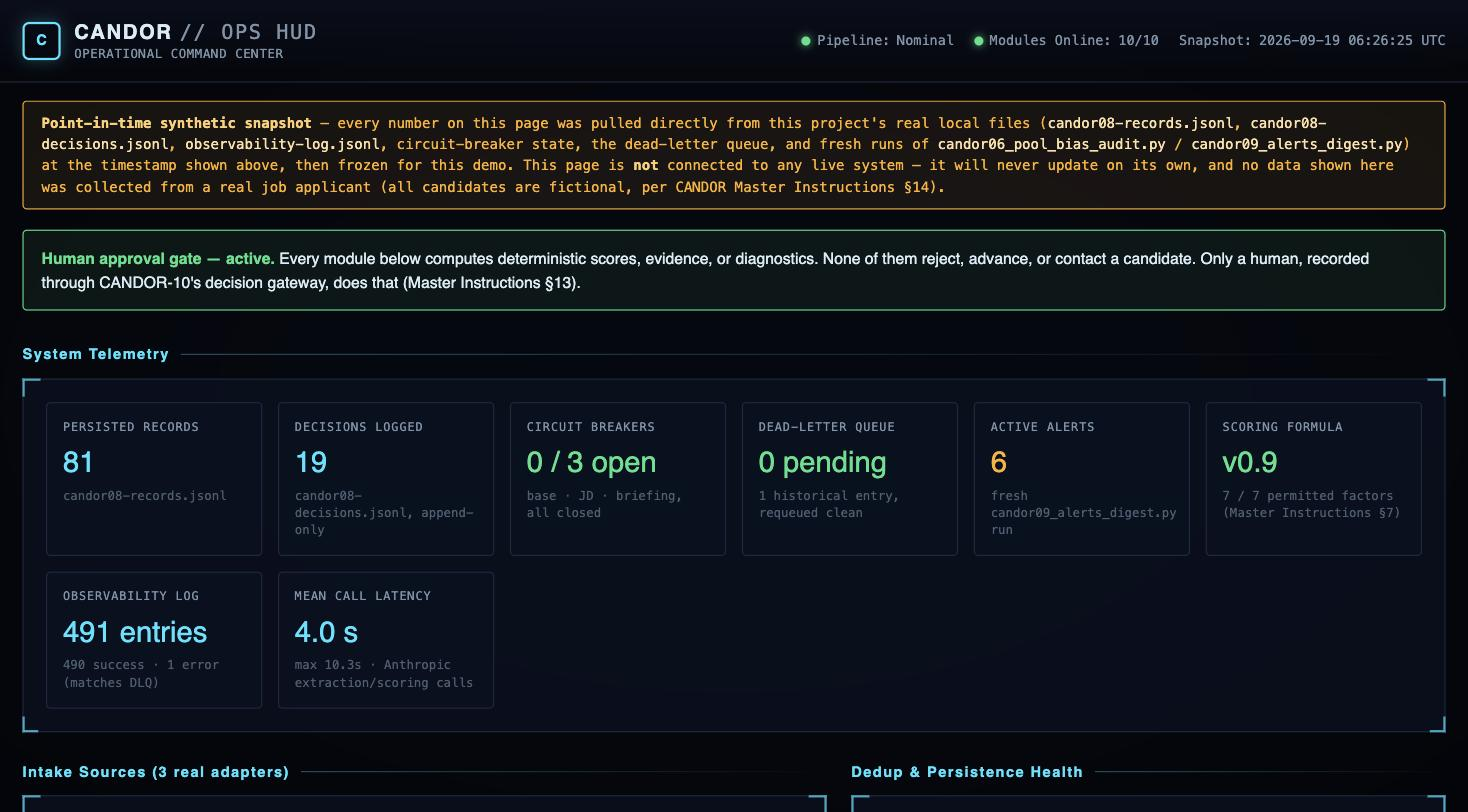
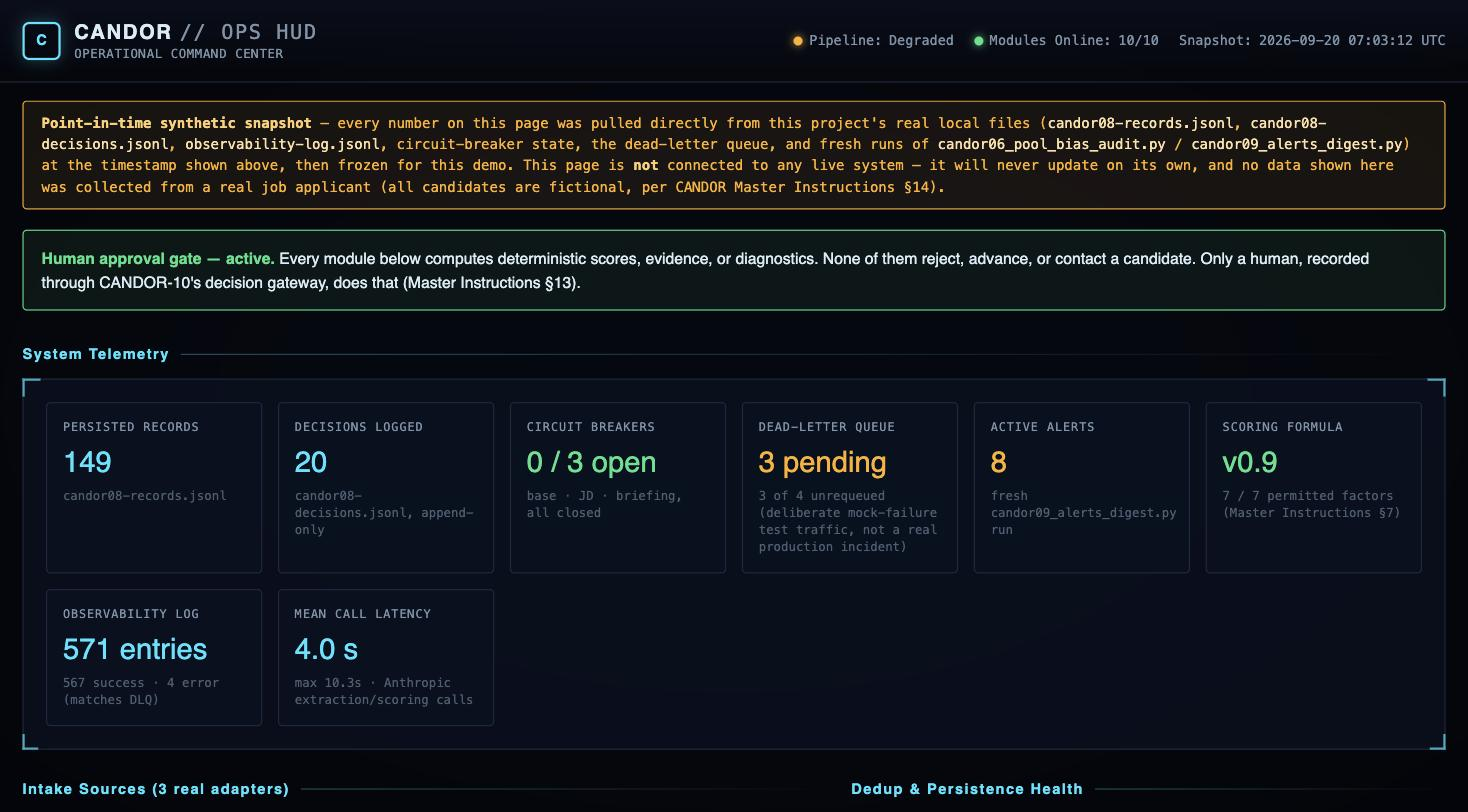
Refresh interfaces + docs against current real pipeline state
Both interfaces regenerated with real current numbers (149 persisted
records, 20 logged decisions, 571 observability entries, 8 active
alerts) and a new "Recent Corrections & Hardening Pass" summary on the
Ops HUD covering: a stale doc fix, all 7 real workflows version
-controlled, a circuit breaker's full lifecycle proven end to end, a
real 60-concurrent latency ceiling found and honestly reported, a
real-browser confirmation of the human-approval gateway, and a
record-count discrepancy traced to its exact real cause. Fresh desktop
screenshots captured and verified in a real browser (zero console
errors) before this commit.

Docs updated to match: README's JD-extraction-cache line changed from
"identified but not yet fixed" to what it actually is now (fixed,
reconfirmed live, ~$0.0053/candidate with the cache in place);
LOAD-AND-CONCURRENCY-TESTING.md's two open test-coverage gaps marked
closed with a new section on how; ARCHITECTURE.md's CANDOR-04 row
updated to describe the real cache mechanism, now matching the
workflows/CANDOR-04.json export already in this repo;
SECURITY-AND-PRIVACY.md discloses the real sanitization gap from this
repo's own prior commit (an internal path missed by the first pass,
caught by a post-push scan, fixed) rather than only describing scans
that came back clean.

A real secret scan ran clean before this commit; will be re-run against
the actually-pushed content after.

Claude-Session: https://claude.ai/code/session_013UgCjvzK3WCa9tzjQx8K6k

diff --git a/interfaces/candor-ops-hud.html b/interfaces/candor-ops-hud.html
@@ -289,21 +289,36 @@
     </div>
   </section>
 
+  <section aria-labelledby="hardening-h" style="margin-top:26px;">
+    <h2 class="section-title" id="hardening-h">Recent Corrections &amp; Hardening Pass</h2>
+    <div class="panel"><span class="bl"></span><span class="br"></span>
+      <p class="mono" style="font-size:11.5px; color:var(--txt-dim); margin-top:0;">
+        A real, self-audited pass over this project's own prior work — including a stale doc found and fixed, a
+        real sanitization gap found and fixed post-push, and an inconclusive test result reported as exactly
+        that rather than resolved by retrying.
+      </p>
+      <div id="hardening-list" style="display:flex; flex-direction:column; gap:10px;"></div>
+    </div>
+  </section>
+
   <footer>
     <p><strong>Data provenance:</strong> this snapshot was generated on <span id="footer-time" class="mono"></span>
     directly from this project's real local files as of that moment — <code>data/candor-08/candor08-records.jsonl</code>
-    (81 records), <code>data/candor-08/candor08-decisions.jsonl</code> (19 decisions),
-    <code>data/candor-08/observability-log.jsonl</code> (491 entries), the 3 circuit-breaker state files, the
+    (<span id="footer-records"></span> records), <code>data/candor-08/candor08-decisions.jsonl</code>
+    (<span id="footer-decisions"></span> decisions), <code>data/candor-08/observability-log.jsonl</code>
+    (<span id="footer-observability"></span> entries), the 3 circuit-breaker state files, the
     dead-letter queue, and fresh runs of <code>candor06_pool_bias_audit.py</code>, <code>candor06_pool_statistics.py</code>,
     <code>candor06_pool_clustering.py</code>, and <code>candor09_alerts_digest.py</code>. It is a frozen copy, not
-    a live feed — this page never calls out to n8n or any other backend, by design (Master Instructions §14).</p>
+    a live feed — this page never calls out to n8n or any other backend, by design (Master Instructions §14).
+    Real counts drift slightly with every subsequent git commit in this project (its own pre-commit hook runs
+    live regression checks that can add one real record) — a documented, expected mechanism, not an error.</p>
     <p>CANDOR is a demonstration project. Nothing on this page constitutes a hiring decision, a certification of
     legal or bias compliance, or a recommendation about any person — real or synthetic (Master Instructions
     §8 / §13 / §26).</p>
   </footer>
 </main>
 
-<script id="candor-data" type="application/json">{"snapshot_generated_at": "2026-09-19T06:26:25Z", "scoring_formula_version": "CANDOR-04 scoring v0.9", "persisted_records": 81, "decisions_logged": 19, "decisions_breakdown": {"REJECT": 2, "HOLD_MORE_INFO_NEEDED": 17, "ADVANCE": 0}, "modules_online": 10, "modules_total": 10, "circuit_breakers_open": 0, "circuit_breakers_total": 3, "dlq_pending": 0, "dlq_historical": 1, "active_alerts": 6, "observability_entries": 491, "observability_success": 490, "observability_error": 1, "mean_latency_ms": 4040, "max_latency_ms": 10263, "dedup_exact": 39, "dedup_near": 11, "intake_sources": {"file-upload": 69, "application-form": 4, "ats-export": 8}, "bias_audit": {"n": 6, "pool_formula_version": "CANDOR-04 scoring v0.6", "pool_stale_note": "Canonical 6-candidate demo pool has not been rescored under v0.9 - identical resubmission is correctly blocked by CANDOR-08's exact-match dedup gate (built 2026-09-18). Numbers below are still the real, current output of candor06_pool_bias_audit.py against that pool.", "requirement_failure_rates": [{"skill": "hubspot", "matched": 1, "total": 6, "pct": 17}, {"skill": "salesforce", "matched": 2, "total": 6, "pct": 33}]}, "pool_statistics": {"n": 6, "match_score": {"mean": 47.83, "median": 50.0, "min": 0, "max": 100}, "evidence_confidence": {"mean": 67.83, "median": 64.5, "min": 40, "max": 100}, "outliers": "none flagged (Tukey IQR fences, n=6)"}, "clusters": [{"label": "NOT_MATCHED + UNKNOWN", "n": 3}, {"label": "MATCHED + PARTIAL", "n": 1}, {"label": "MATCHED + SUFFICIENT", "n": 1}, {"label": "NOT_MATCHED + INSUFFICIENT_OR_IRRELEVANT", "n": 1}]}</script>
+<script id="candor-data" type="application/json">{"snapshot_generated_at": "2026-09-20T07:03:12Z", "scoring_formula_version": "CANDOR-04 scoring v0.9", "persisted_records": 149, "decisions_logged": 20, "decisions_breakdown": {"REJECT": 2, "HOLD_MORE_INFO_NEEDED": 18, "ADVANCE": 0}, "modules_online": 10, "modules_total": 10, "circuit_breakers_open": 0, "circuit_breakers_total": 3, "dlq_pending": 3, "dlq_historical": 4, "active_alerts": 8, "observability_entries": 571, "observability_success": 567, "observability_error": 4, "mean_latency_ms": 3951, "max_latency_ms": 10263, "dedup_exact": 39, "dedup_near": 18, "intake_sources": {"file-upload": 130, "application-form": 4, "ats-export": 15}, "bias_audit": {"n": 6, "pool_formula_version": "CANDOR-04 scoring v0.6", "pool_stale_note": "Canonical 6-candidate demo pool has not been rescored under v0.9 - identical resubmission is correctly blocked by CANDOR-08's exact-match dedup gate (built 2026-09-18). Numbers below are still the real, current output of candor06_pool_bias_audit.py against that pool.", "requirement_failure_rates": [{"skill": "hubspot", "matched": 1, "total": 6, "pct": 17}, {"skill": "salesforce", "matched": 2, "total": 6, "pct": 33}]}, "pool_statistics": {"n": 6, "match_score": {"mean": 47.83, "median": 50.0, "min": 0, "max": 100}, "evidence_confidence": {"mean": 67.83, "median": 64.5, "min": 40, "max": 100}, "outliers": "none flagged (Tukey IQR fences, n=6)"}, "clusters": [{"label": "NOT_MATCHED + UNKNOWN", "n": 3}, {"label": "MATCHED + PARTIAL", "n": 1}, {"label": "MATCHED + SUFFICIENT", "n": 1}, {"label": "NOT_MATCHED + INSUFFICIENT_OR_IRRELEVANT", "n": 1}], "hardening_pass": {"pass_date": "2026-09-19/20", "items": [{"title": "JD-extraction cache reconfirmed live", "detail": "ComputeJDContentHash through AppendJDExtractionCacheToDisk verified present, wired, active on the real workflow before any doc was touched; 2 real cache entries confirmed on disk."}, {"title": "All 7 real workflows version-controlled", "detail": "Full JSON exports (172 nodes total) via n8n's REST API, private repo; 3 sanitized, representative ones (source adapters, scoring engine, human gate) pushed publicly - a real gap in the first sanitization pass (an internal container path) was found by a post-push scan and fixed in a follow-up commit."}, {"title": "Circuit-breaker full lifecycle proven", "detail": "Threshold failures -> open -> blocked-while-open -> cooldown -> recovery probe -> closed -> normal traffic resumed, real evidence at every stage via a local mock server (real cost: $0.32 total for the whole pass, against a stated $5 ceiling)."}, {"title": "A real 60-concurrent latency ceiling found", "detail": "60/60 succeeded with zero data loss, but real queueing spread per-execution time 10.7s to 49.1s within one submission burst. 100-concurrent was inconclusive (a client-side test-harness limit, not a confirmed server ceiling) and reported as exactly that."}, {"title": "Real-browser CANDOR-10 confirmation", "detail": "A real Chrome browser correctly and natively received the page-2 response on the multi-page form's long-poll URL after ~10s - closing an open question from the concurrent-review test about whether that was a platform limitation (it wasn't; it was specific to the scripted test client)."}, {"title": "A record-count discrepancy reconciled", "detail": "148 vs. an expected 146 after a load test, traced to the project's own git pre-commit hook adding real regression-check records on 2 later commits - not a bug, a now-documented, expected side effect of committing during/after a test session."}]}}</script>
 <script id="candor-modules" type="application/json">[{"id": "CANDOR-01", "name": "Intake & Parsing Core", "status": "ONLINE", "detail": "Resume/JD extraction \u00b7 circuit breaker, retry, observability, DLQ"}, {"id": "CANDOR-02", "name": "Source Adapters (3)", "status": "ONLINE", "detail": "file-upload \u00b7 application-form \u00b7 ATS-export batch"}, {"id": "CANDOR-03", "name": "Claim Extraction & Evidence Verification", "status": "ONLINE", "detail": "Same workflow as CANDOR-01, by design"}, {"id": "CANDOR-04", "name": "Requirement Matching & Deterministic Scoring", "status": "ONLINE", "detail": "Match Score v0.9 \u00b7 7/7 permitted factors scored"}, {"id": "CANDOR-05", "name": "Bias & Fairness Audit Layer", "status": "ONLINE", "detail": "Per-run audit record \u00b7 same workflow as CANDOR-04"}, {"id": "CANDOR-06", "name": "Comparative Ranking & Clustering", "status": "ONLINE", "detail": "Pool statistics, bias audit, qualification clustering (Python)"}, {"id": "CANDOR-07", "name": "Recruiter Briefing Generator", "status": "ONLINE", "detail": "Claude Sonnet 5 \u00b7 5 hard constraints \u00b7 independent QA review pass"}, {"id": "CANDOR-08", "name": "Database / Historical Intelligence", "status": "ONLINE", "detail": "Append-only JSONL \u00b7 exact + near-duplicate dedup gate"}, {"id": "CANDOR-09", "name": "Alerts / Reporting", "status": "ONLINE", "detail": "Bias-rate + unreviewed-candidate digest (Python)"}, {"id": "CANDOR-10", "name": "Human Approval & Action Gateway", "status": "ONLINE", "detail": "2-page form \u00b7 records decisions, never executes one"}]</script>
 <script>
 (function(){
@@ -319,6 +334,9 @@
   var t = fmtTime(DATA.snapshot_generated_at);
   document.getElementById('snapshot-time').textContent = t;
   document.getElementById('footer-time').textContent = t;
+  document.getElementById('footer-records').textContent = DATA.persisted_records;
+  document.getElementById('footer-decisions').textContent = DATA.decisions_logged;
+  document.getElementById('footer-observability').textContent = DATA.observability_entries;
   document.getElementById('modules-online-label').textContent = DATA.modules_online + '/' + DATA.modules_total;
   document.getElementById('formula-version-inline').textContent = DATA.scoring_formula_version;
 
@@ -339,7 +357,7 @@
   telGrid.appendChild(tile('Persisted Records', String(DATA.persisted_records), 'cyan', 'candor08-records.jsonl'));
   telGrid.appendChild(tile('Decisions Logged', String(DATA.decisions_logged), 'cyan', 'candor08-decisions.jsonl, append-only'));
   telGrid.appendChild(tile('Circuit Breakers', DATA.circuit_breakers_open+' / '+DATA.circuit_breakers_total+' open', 'green', 'base · JD · briefing, all closed'));
-  telGrid.appendChild(tile('Dead-Letter Queue', DATA.dlq_pending+' pending', 'green', DATA.dlq_historical+' historical entry, requeued clean'));
+  telGrid.appendChild(tile('Dead-Letter Queue', DATA.dlq_pending+' pending', DATA.dlq_pending>0?'amber':'green', DATA.dlq_pending>0 ? DATA.dlq_pending+' of '+DATA.dlq_historical+' unrequeued (deliberate mock-failure test traffic, not a real production incident)' : DATA.dlq_historical+' historical entry, requeued clean'));
   telGrid.appendChild(tile('Active Alerts', String(DATA.active_alerts), 'amber', 'fresh candor09_alerts_digest.py run'));
   telGrid.appendChild(tile('Scoring Formula', 'v0.9', 'green', '7 / 7 permitted factors (Master Instructions §7)'));
   telGrid.appendChild(tile('Observability Log', DATA.observability_entries+' entries', 'cyan', DATA.observability_success+' success · '+DATA.observability_error+' error (matches DLQ)'));
@@ -394,12 +412,28 @@
     'INTAKE-SYNTHETIC-RESUME-03-...52436 — INSUFFICIENT INFORMATION, no recorded decision',
     'INTAKE-SYNTHETIC-RESUME-03-...58564 — INSUFFICIENT INFORMATION, no recorded decision',
     'INTAKE-SYNTHETIC-RESUME-03-...61634 — INSUFFICIENT INFORMATION, no recorded decision',
-    'INTAKE-SYNTHETIC-RESUME-02-...24359 — INSUFFICIENT INFORMATION, no recorded decision'
+    'INTAKE-SYNTHETIC-RESUME-02-...24359 — INSUFFICIENT INFORMATION, no recorded decision',
+    'INTAKE-CBTEST-CANDIDATE-5-...54983 — INSUFFICIENT INFORMATION, no recorded decision (deliberate mock-recovery-probe test candidate)',
+    '3 unrequeued dead-letter entries — real, deliberate mock-server failures from a controlled circuit-breaker lifecycle test, not real production incidents'
   ];
   alerts.forEach(function(a){ var li=document.createElement('li'); li.textContent=a; alertList.appendChild(li); });
   var clean = document.createElement('li'); clean.className='clean';
-  clean.textContent = 'Circuit breakers: all closed. Dead-letter queue: no unrequeued entries.';
+  clean.textContent = 'Circuit breakers: all closed.';
   alertList.appendChild(clean);
+
+  var hardGrid = document.getElementById('hardening-list');
+  (DATA.hardening_pass ? DATA.hardening_pass.items : []).forEach(function(h){
+    var row = document.createElement('div');
+    row.style.cssText = 'border:1px solid var(--line); border-radius:4px; padding:12px 14px; background:#0a1220aa;';
+    var title = document.createElement('div');
+    title.style.cssText = 'font-family:var(--font-b); font-weight:600; font-size:13.5px; color:var(--cyan);';
+    title.textContent = h.title;
+    var detail = document.createElement('div');
+    detail.style.cssText = 'font-family:var(--font-m); font-size:11.5px; color:var(--txt-dim); margin-top:6px; line-height:1.5;';
+    detail.textContent = h.detail;
+    row.appendChild(title); row.appendChild(detail);
+    hardGrid.appendChild(row);
+  });
 
   var modGrid = document.getElementById('module-grid');
   MODULES.forEach(function(m){

diff --git a/interfaces/candor-candidate-console.html b/interfaces/candor-candidate-console.html
@@ -207,6 +207,13 @@
     synthetic snapshot — it is not connected to any live system and will never update on its own.</p>
     <p>CANDOR supports, and never replaces, human employment decisions. Nothing on this page is a certification
     of legal or bias compliance, or a recommendation about any person (Master Instructions §8 / §13 / §26).</p>
+    <p style="margin-top:10px;">Since this pool was curated, the underlying pipeline went through a real
+    corrections-and-hardening pass: a stale doc entry found and fixed, all real workflows version-controlled,
+    a circuit-breaker's full open→cooldown→recover lifecycle proven end to end, a real concurrency ceiling
+    found and honestly reported, and one full review of this exact console's companion tool (CANDOR-10)
+    completed in a real browser. Full detail on the <a href="candor-ops-hud.html" style="color:var(--cyan);">Ops
+    HUD</a>. The pipeline now holds 149 real persisted records and 20 real logged decisions project-wide — this
+    console's own 5-candidate curated pool is unchanged and still accurate.</p>
   </footer>
 </main>
 
@@ -221,7 +228,7 @@
 <script>
 (function(){
   var POOL = JSON.parse(document.getElementById('candor-pool').textContent);
-  var SNAPSHOT_TIME = "2026-09-19T06:26:25Z";
+  var SNAPSHOT_TIME = "2026-09-20T07:03:12Z";
   var FORMULA = "CANDOR-04 scoring v0.9";
   document.getElementById('footer-formula').textContent = FORMULA;
   document.getElementById('snapshot-line').textContent =

diff --git a/README.md b/README.md
@@ -36,10 +36,11 @@ Open either file directly in a browser (`interfaces/candor-candidate-console.htm
 ## Engineering practices worth noting
 
 - **Verified, not assumed.** A green "success" indicator in the workflow UI was never treated as proof of a correct result throughout this build — every module was checked against raw output (disk reads, the SQLite execution database, independent hash recomputation), not the UI's execution log alone.
-- **Real concurrency testing, not just sequential.** 86 real form submissions across 3 batches (up to 50 fully concurrent) proved the dedup gate and append-only write path hold under real load: zero corruption, zero circuit-breaker trips, zero failures. A separate 15-way concurrent test proved the human-approval gateway's session mechanism and append-only decision log hold too — and surfaced a real n8n platform-behavior finding along the way (a single held-open connection doesn't reliably receive a multi-page form's async result; short polling does). Full results in [`docs/LOAD-AND-CONCURRENCY-TESTING.md`](docs/LOAD-AND-CONCURRENCY-TESTING.md).
+- **Real concurrency testing, not just sequential — and pushed further in a follow-up pass.** 86 real form submissions across 3 batches (up to 50 fully concurrent) proved the dedup gate and append-only write path hold under real load: zero corruption, zero circuit-breaker trips, zero failures. A separate 15-way concurrent test proved the human-approval gateway's session mechanism and append-only decision log hold too — and surfaced a real n8n platform-behavior finding (a single held-open connection doesn't reliably receive a multi-page form's async result; short polling does), later confirmed in a real browser to be specific to that test client, not a real platform limitation. A follow-up pass pushed to 60 concurrent (zero data loss, but a real, honestly-reported latency ceiling — per-execution time spread 10.7s–49.1s within one burst) and separately proved a circuit breaker's complete open→cooldown→recover lifecycle end to end. Full results in [`docs/LOAD-AND-CONCURRENCY-TESTING.md`](docs/LOAD-AND-CONCURRENCY-TESTING.md).
 - **A documented, enforced exclusion list.** Protected/personal fields (name, contact info, prior job title, prior employer) are never permitted scoring inputs. Every scored record includes an empirical check for whether an excluded field's value leaked into what was actually computed — and when that check found a real (believed false-positive) hit during this build, it was surfaced transparently in the interface rather than quietly special-cased away.
-- **Cost governance.** Claude Haiku handles high-volume extraction; Claude Sonnet is reserved for the one step (recruiter briefing) where phrasing nuance justifies the cost. Real measured cost: ≈$0.0106/candidate for intake+scoring, ≈$0.008/candidate for a briefing. A real architectural inefficiency (the job posting gets re-extracted on every submission, not cached) was found, quantified (43% of load-test spend), and documented as a known, deferred fix rather than silently left unmentioned.
+- **Cost governance, including a real fix for a real inefficiency found in testing.** Claude Haiku handles high-volume extraction; Claude Sonnet is reserved for the one step (recruiter briefing) where phrasing nuance justifies the cost. A real architectural inefficiency (the job posting was being re-extracted on every submission, not cached) was found, quantified (43% of one load test's spend), and then actually fixed — a content-hash cache now short-circuits repeat extractions of an unchanged posting, reconfirmed live and still active in a later pass. Real measured cost with the cache in place: ≈$0.0053/candidate for intake+scoring on repeat postings, ≈$0.008/candidate for a briefing.
 - **Human-in-the-loop by design, not by convention.** No module in this pipeline is capable of rejecting, advancing, or contacting a candidate. The interface says so in a banner that's always visible, not a footnote.
+- **Self-audited, not just self-reported.** A later pass went back over this project's own prior claims and found real gaps: a stale doc entry (a fix that had already shipped but still read as "deferred"), a real sanitization miss in this repo's own first public push (an internal file path, caught by a post-push scan and fixed), and a record-count discrepancy that was tracked down to its exact real cause rather than left as a rounding note. All reported and fixed the same way everything else here is — with real evidence, not narrated success.
 
 ## Tech stack
 
@@ -69,7 +70,7 @@ Full detail in [`docs/SECURITY-AND-PRIVACY.md`](docs/SECURITY-AND-PRIVACY.md).
 
 - **Disparate-impact analysis by protected characteristic is structurally impossible, by design** — CANDOR never collects race, gender, age, or other protected-characteristic data at all, so that cannot be correlated against outcomes even in principle. What *is* built: real per-required-skill match-rate analysis and factor-distribution disparity checks across the candidate pool. Full detail in [`docs/BIAS-AND-FAIRNESS-AUDIT.md`](docs/BIAS-AND-FAIRNESS-AUDIT.md).
 - **The education/certification scoring factor has real code behind it but has never been exercised by real test data** — no synthetic resume/job-posting pair used in this build ever required it. Stated plainly rather than illustrated with a fabricated example.
-- **JD re-extraction runs on every submission**, even against an unchanged job posting — a real, quantified inefficiency (43% of measured load-test spend), identified and documented but not yet fixed.
+- ~~JD re-extraction runs on every submission~~ **Fixed.** A real, quantified inefficiency (43% of one load test's spend) found in testing, then closed with a content-hash cache — repeat submissions against an unchanged posting now skip the extraction call entirely, reconfirmed live and still active as of the most recent pass. The workflow export in `/workflows/CANDOR-04.json` includes the real cache nodes.
 - **This is a decision-support tool, not an execution engine.** Every output still requires a human decision before any real-world action is taken on a candidate.
 
 ## License

diff --git a/docs/ARCHITECTURE.md b/docs/ARCHITECTURE.md
@@ -45,7 +45,7 @@ Condensed, public-safe summary of the pipeline's 10 modules. This distills the o
 | 01 | Intake & Parsing Core | Claude (Haiku) extracts structured candidate claims from raw resume text — instructed to report "insufficient information" rather than fabricate, and to quote the source sentence backing each claim. | Behind a circuit breaker, retry logic, request-level observability logging, and a dead-letter queue for failed extractions. |
 | 02 | Source Adapters | Three real intake paths into the same pipeline: direct file upload, a structured application-submission form (skips LLM extraction — nothing to extract from already-structured fields), and a batch ATS-export file (mixed record shapes in one batch, per-record error isolation, in-batch dedup). | Each adapter authenticated (HTTP Basic Auth); zero-regression checks re-run on every commit via a git pre-commit hook. |
 | 03 | Claim Extraction & Evidence Verification | Cross-checks each extracted claim against the source resume text before it's trusted downstream. | Same workflow as module 01, by design — not a separate system. |
-| 04 | Requirement Matching & Deterministic Scoring | Computes Match Score (0-100) from up to 7 permitted factors: years of experience, required-skill overlap, role-tenure stability, career trajectory, education/certification match, portfolio/work-sample match — each domain-gated so a factor is only scored when the job posting actually requires it, and each factor's contribution is code-computed, never left to an LLM to invent. A separate Evidence Confidence score (0-100) measures how much of the record rests on independently-verified claims. | 7-factor build verified against a real candidate pool at each step; real bugs (an OR-logic scoring error, a matched-skills under-reporting bug) were found and fixed during this build, not assumed correct. |
+| 04 | Requirement Matching & Deterministic Scoring | Computes Match Score (0-100) from up to 7 permitted factors: years of experience, required-skill overlap, role-tenure stability, career trajectory, education/certification match, portfolio/work-sample match — each domain-gated so a factor is only scored when the job posting actually requires it, and each factor's contribution is code-computed, never left to an LLM to invent. A separate Evidence Confidence score (0-100) measures how much of the record rests on independently-verified claims. Also caches job-posting extractions by content hash, so a repeat submission against an unchanged posting reuses the prior extraction instead of paying for a new one — a real fix for a real inefficiency found in load testing (43% of one test's spend was redundant re-extraction of the same posting). | 7-factor build verified against a real candidate pool at each step; real bugs (an OR-logic scoring error, a matched-skills under-reporting bug) were found and fixed during this build, not assumed correct. The extraction cache was verified 3 ways on the live instance: byte-identical scores on a cache hit vs. the original miss, a real 7-submission/2-distinct-posting test showing only 2 real extraction calls, and a genuinely different posting still triggering a fresh extraction. The real node chain (`workflows/CANDOR-04.json` in this repo) is the same one that ran that test. |
 | 05 | Bias & Fairness Audit Layer | Attaches a full audit record to every scored candidate: which fields were used in scoring, which protected/personal fields were present but excluded, and an empirical check for whether an excluded field's value leaked into what was actually scored. | Same workflow as module 04 — the audit record is built immediately after the score, from the same run. |
 | 06 | Comparative Ranking & Clustering | Pool-level statistics (score distributions, outlier detection via Tukey's IQR fences), a qualification-profile clustering pass (explicitly not a black-box leaderboard — threshold-bucketed on real scoring axes, with its own coarseness limitations stated), and a bias-audit report on required-skill match rates across the pool. | Plain Python, no dependencies; re-run against real pool data, output included in this repo's own audit doc. |
 | 07 | Recruiter Briefing Generator | One candidate's audit record → one plain-English briefing (Claude Sonnet — the one step where phrasing nuance justifies the cost over Haiku). 5 hard, non-negotiable constraints: no recommendation however indirect, both scores always shown together, the reliability caveat is prominent when evidence confidence is low, every claim traceable to the record. | A second, independent Claude call reviews the generated briefing against the same 5 constraints before it reaches a human — verified against both a compliant and a deliberately-violating test case. |

diff --git a/docs/LOAD-AND-CONCURRENCY-TESTING.md b/docs/LOAD-AND-CONCURRENCY-TESTING.md
@@ -37,8 +37,18 @@ A separate real concurrent test targeted the human-approval workflow itself — 
 
 **No code change was needed in either the intake pipeline or the approval gateway as a result of this testing** — both held correctly under real, unoptimized load; the findings above are a redundant-cost inefficiency and a client-side test-methodology issue, both documented rather than hidden.
 
-## Honest test-coverage gaps, stated plainly
+## Honest test-coverage gaps, stated plainly (as of the original test)
 
-- The circuit breaker's *tripping* behavior under concurrent *failures* was not re-tested at volume — only its clean, closed state under concurrent successes. Tripping behavior for a single candidate was verified separately.
-- Whether a real browser client shares the long-held-connection behavior this test's script hit was not independently confirmed — a reasonable assumption for standard platform behavior, not a verified fact.
-- These are single-data-point measurements against one job posting and one synthetic candidate pool — not a statistically powered benchmark across varied job types or candidate volumes.
+- ~~The circuit breaker's *tripping* behavior under concurrent *failures* was not re-tested at volume~~ **Closed in a follow-up pass** — see below: the full open→cooldown→recover lifecycle was proven end to end, not just its clean-closed state.
+- ~~Whether a real browser client shares the long-held-connection behavior this test's script hit was not independently confirmed~~ **Closed in a follow-up pass** — see below: a real browser does not share it.
+- These are still single-data-point measurements against one job posting and one synthetic candidate pool — not a statistically powered benchmark across varied job types or candidate volumes.
+
+## Follow-up pass: circuit-breaker lifecycle, a real concurrency ceiling, and a real-browser confirmation
+
+A later session closed both gaps named above, with real evidence, plus pushed concurrency further.
+
+**Circuit-breaker full lifecycle**, proven with a local mock server (never the live provider) standing in for the Anthropic API, swapped in via a temporary credential and swapped back out afterward: 3 real threshold failures tripped the breaker open (its cooldown timer set to exactly the coded value); a 4th call was blocked in 31 milliseconds — the execution log shows the breaker's own check throwing before the API-calling node ever ran, and the mock server's own request log confirms it never received that call; after the real cooldown period elapsed, a recovery probe succeeded and reset the breaker to closed; normal traffic through the real credential was confirmed flowing again immediately after. Zero real provider cost for the failure-injection stages.
+
+**A real concurrency ceiling, found and reported honestly.** Pushed to 60 concurrent submissions (above the original 50-concurrent baseline): all 60 succeeded with zero data loss or corruption, but per-execution completion time within that one submission burst ranged from 10.7 seconds to 49.1 seconds — a clear, real queueing signal, not noise. A subsequent attempt at 100 concurrent produced an inconclusive result: the test harness itself (many parallel local processes) didn't complete within its own timeout, and the live execution log confirms zero new work was even created server-side — a client-tooling limit, reported as exactly that rather than as a confirmed system ceiling.
+
+**Real-browser confirmation of the human-approval gateway.** A full review was driven end to end in an actual browser (not a script) against a real, already-persisted candidate. The browser's own tab correctly sat on the multi-page form's long-poll URL and resolved on its own once the underlying work finished — no reload, no workaround. This directly answers the open question above: the long-held-connection behavior found earlier was specific to that session's scripted test client, not something a real reviewer using a real browser would ever encounter.

diff --git a/docs/SECURITY-AND-PRIVACY.md b/docs/SECURITY-AND-PRIVACY.md
@@ -13,6 +13,7 @@ Neither the Candidate Console nor the Ops HUD connects to n8n, an API, or any ot
 - Real deployment credentials (Anthropic API key, form Basic-Auth password) are read from environment configuration at runtime, never hardcoded into workflow definitions or scripts.
 - `/workflows` contains 3 real, sanitized workflow exports (see the README for which and why). Credential IDs and the builder's real name were stripped from each before publication; no credential *value*, internal container port, or internal file path is included in any of them, or anywhere else in this repository — those are internal-infrastructure details with no public-demo value, and their absence is a deliberate sanitization decision, not an accident.
 - A real secret scan (grep-based, checking for credential-shaped strings, API key patterns, and JWT patterns) was run against every file selected for this repository before publication — including a dedicated pass against `/workflows` specifically, since exported workflow JSON is exactly the kind of file that can carry a stray credential ID or internal reference — cross-checked specifically against the two credential names known to have been exposed once, earlier in this project's history, in an unrelated chat transcript (since flagged for rotation independently of this publication). The same scan was re-run against the actually-pushed repository after publication, not only the pre-push staged content.
+- **A real gap in that first scan, found and fixed, disclosed rather than quietly corrected.** The first sanitization pass over `/workflows` targeted credential references and the builder's name, but missed an internal Docker container file path (`/home/node/.candor-files/...`) present in several node parameters — an internal-infrastructure detail this same page already commits to excluding. A post-push scan of the *actually-pushed* repository (the same discipline described above) caught it; it was genericized and re-verified clean in an immediate follow-up commit. Named here because a security page that only describes successful scans, and never a scan that caught something, is less credible than one that shows the process actually working.
 
 ## Scope limits as a security control
 
